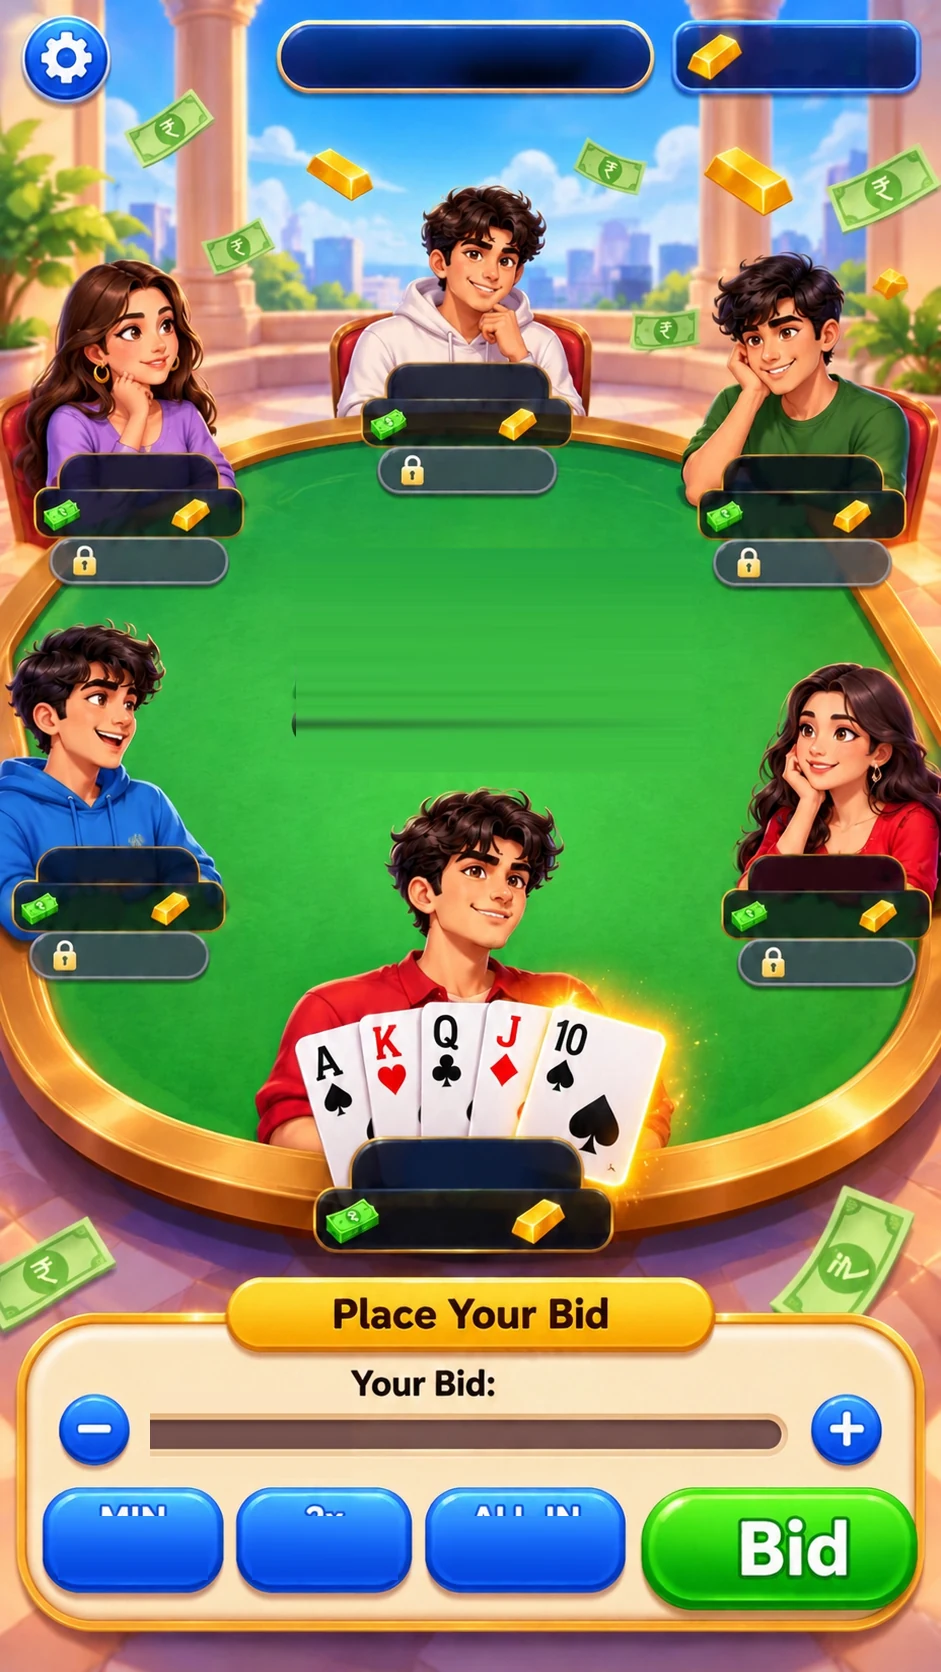
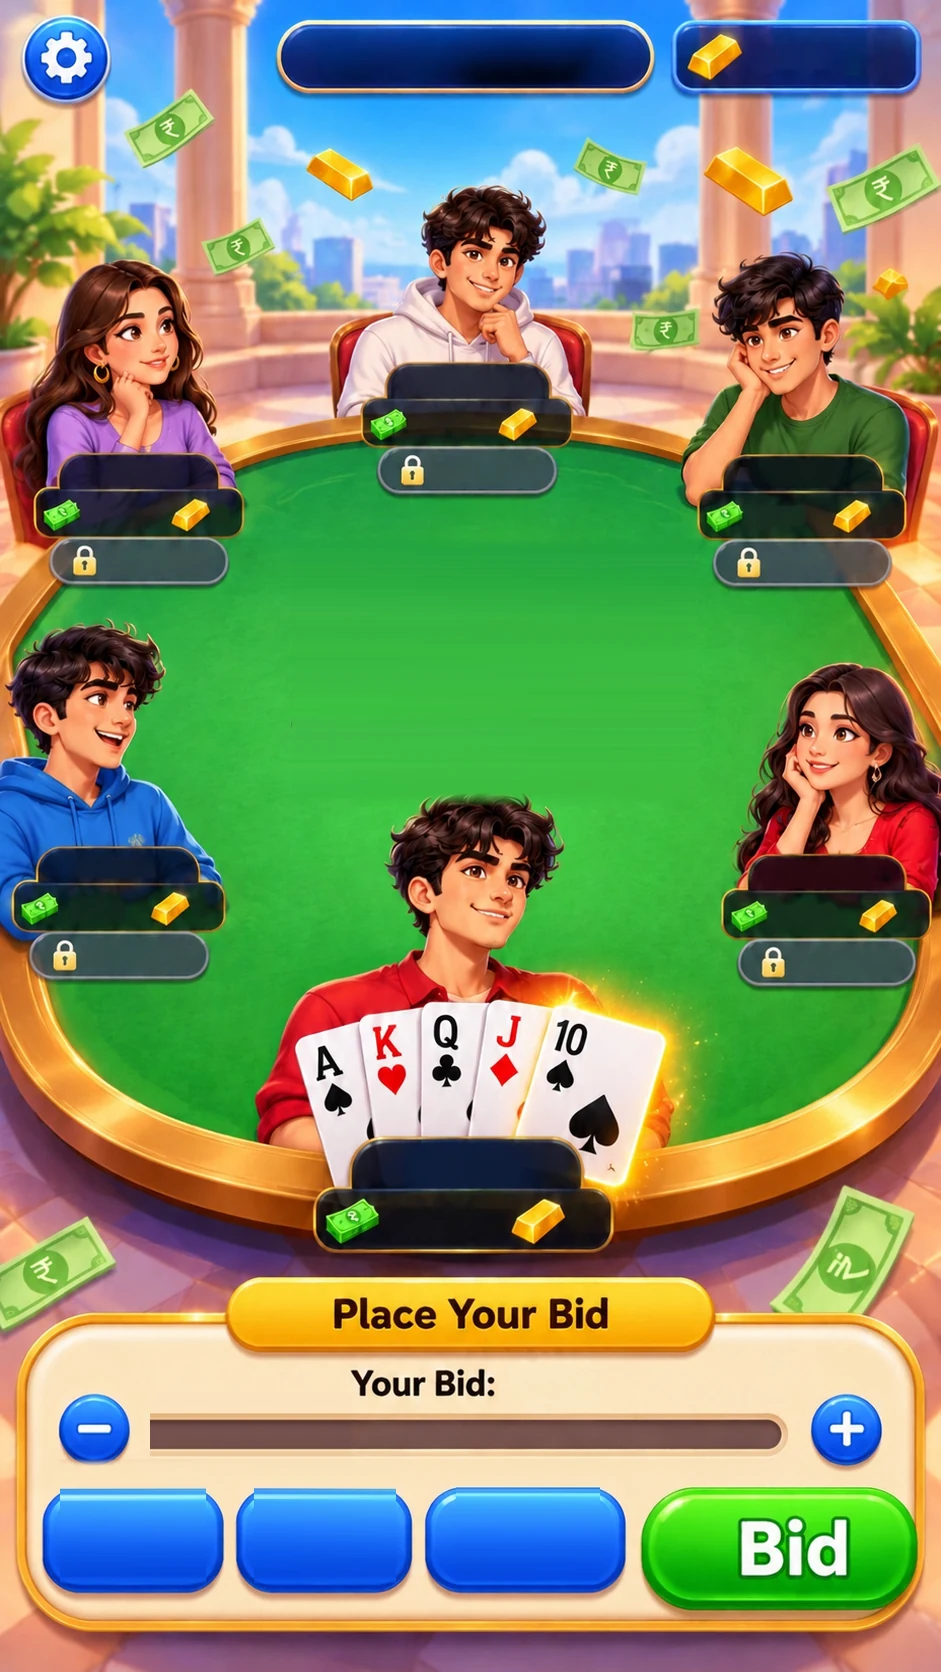
Table polish: live presets, navy badges, You name, plate gaps, clean felt

diff --git a/index.html b/index.html
@@ -100,7 +100,7 @@ input[type=range]::-moz-range-thumb{width:26px;height:26px;border:3px solid #fff
 #gameScreen{padding:0 8px;gap:4px;
   background:
     linear-gradient(180deg,rgba(255,255,255,.42) 0%,rgba(214,244,255,.30) 40%,rgba(200,240,200,.42) 100%),
-    url('assets/tablebg.webp?v=33') center/cover no-repeat fixed}
+    url('assets/tablebg.webp?v=34') center/cover no-repeat fixed}
 
 .topbar{display:flex;align-items:center;gap:8px;padding:8px 0 2px}
 .topbar .icon{
@@ -252,7 +252,7 @@ input[type=range]::-moz-range-thumb{width:26px;height:26px;border:3px solid #fff
 .hand .card.sel{
   border-color:#63e06b;box-shadow:0 0 0 3px #63e06b,0 12px 22px rgba(0,0,0,.35);z-index:20!important;
 }
-.hand .card.ghost{background:url('assets/cardback.webp?v=33') center/cover;border-color:#fff}
+.hand .card.ghost{background:url('assets/cardback.webp?v=34') center/cover;border-color:#fff}
 
 /* ---------- action panel ---------- */
 .actionpanel{
@@ -394,7 +394,7 @@ input[type=range]::-moz-range-thumb{width:26px;height:26px;border:3px solid #fff
 .rcard.red .face.front{color:#d02a1e}
 .rcard .face.front .r{font-size:24px;line-height:1;font-family:Georgia,serif}
 .rcard .face.front .s{font-size:16px;line-height:1}
-.rcard .face.back{transform:rotateY(180deg);background:url('assets/cardback.webp?v=33') center/cover;border:2px solid #fff}
+.rcard .face.back{transform:rotateY(180deg);background:url('assets/cardback.webp?v=34') center/cover;border:2px solid #fff}
 .rcell.win .rcard .face.front{box-shadow:0 0 0 3px #63e06b,0 0 26px rgba(99,224,107,.9)}
 .rcell.win{animation:winglow 1.4s ease-in-out infinite alternate}
 @keyframes winglow{from{transform:scale(1)}to{transform:scale(1.05)}}
@@ -479,7 +479,7 @@ input[type=range]::-moz-range-thumb{width:26px;height:26px;border:3px solid #fff
 
 /* ================= SPLASH ================= */
 @font-face{font-family:'Baloo 2';font-style:normal;font-weight:400 800;font-display:swap;
-  src:url('assets/baloo.woff2?v=33') format('woff2')}
+  src:url('assets/baloo.woff2?v=34') format('woff2')}
 #splashScreen{font-family:'Baloo 2',system-ui,sans-serif}
 
 .splash{position:relative;height:100dvh;min-height:100dvh;width:100%;overflow:hidden;
@@ -556,7 +556,7 @@ input[type=range]::-moz-range-thumb{width:26px;height:26px;border:3px solid #fff
 .hs-skyext{display:none}
 
 .hs-crop{position:absolute;background-repeat:no-repeat;background-size:941px 1672px;
-  background-image:url('assets/home/home-base.webp?v=33');will-change:transform;z-index:2}
+  background-image:url('assets/home/home-base.webp?v=34');will-change:transform;z-index:2}
 .hs-char{left:345px;top:150px;width:267px;height:585px;background-position:-345px -150px;
   animation:hsBob 3s ease-in-out infinite}
 @keyframes hsBob{0%,100%{transform:translateY(0)}50%{transform:translateY(-3px)}}
@@ -795,17 +795,19 @@ input[type=range]::-moz-range-thumb{width:26px;height:26px;border:3px solid #fff
 .tb-pile{position:absolute;transform:translate(-50%,-50%);z-index:4;width:104px;height:172px;
   border-radius:9px;filter:drop-shadow(0 6px 10px rgba(0,0,0,.4))}
 .tb-badge{position:absolute;transform:translate(-50%,-50%);z-index:5;
-  font-family:'Baloo 2';font-weight:800;font-size:26px;color:#fff;white-space:nowrap;
-  text-shadow:0 3px 0 rgba(8,20,45,.85)}
+  font-family:'Baloo 2';font-weight:800;font-size:24px;color:#fff;white-space:nowrap;
+  min-width:44px;height:34px;display:flex;align-items:center;justify-content:center;
+  padding:0 10px;border-radius:17px;border:2px solid #4b7fd4;
+  background:linear-gradient(180deg,#1d3f7a,#12294f);text-shadow:0 2px 0 rgba(0,0,0,.6)}
 
-.tb-hand{position:absolute;left:470px;top:1090px;width:0;height:0;z-index:7}
+.tb-hand{position:absolute;left:470px;top:1064px;width:0;height:0;z-index:7}
 .tb-card{position:absolute;left:-55px;top:-92px;width:110px;height:184px;border-radius:9px;
   transition:transform .16s ease,filter .16s ease;filter:drop-shadow(0 6px 10px rgba(0,0,0,.45))}
 .tb-card.sel{filter:drop-shadow(0 0 14px rgba(255,215,80,1))}
 .tb-card.miss{background:#123;border:3px dashed #ffd23f;color:#ffd23f;font-family:'Baloo 2';
   font-size:12px;font-weight:800;display:flex;align-items:center;justify-content:center;text-align:center;padding:5px}
 
-.tb-bidval{left:560px;top:1384px;font-size:34px}
+.tb-bidval{left:562px;top:1384px;font-size:34px;color:#5A3410;text-shadow:0 2px 0 rgba(255,255,255,.5)}
 
 .tb-slider{position:absolute;left:160px;top:1384px;width:622px;height:100px;z-index:6}
 .tb-slider i{position:absolute;left:0;top:38px;bottom:38px;border-radius:12px;
@@ -823,10 +825,12 @@ input[type=range]::-moz-range-thumb{width:26px;height:26px;border:3px solid #fff
 .tb-all{left:525px;top:1540px;width:190px;height:110px;transform:translate(-50%,-50%);border-radius:26px}
 .tb-bidbtn{left:778px;top:1548px;width:270px;height:130px;transform:translate(-50%,-50%);border-radius:34px}
 
-.tb-pv{font-size:28px;color:#fff}
-.tb-pv1{left:132px;top:1546px}
-.tb-pv2{left:324px;top:1546px}
-.tb-pv3{left:525px;top:1546px}
+.tb-pv{font-size:26px;color:#fff;line-height:1.06;text-align:center}
+.tb-pv span{display:block;font-size:26px}
+.tb-pv b{display:block;font-size:26px;font-weight:800}
+.tb-pv1{left:132px;top:1518px}
+.tb-pv2{left:324px;top:1518px}
+.tb-pv3{left:525px;top:1518px}
 
 .tb-overlay{position:absolute;inset:0;z-index:20;display:flex;align-items:center;justify-content:center;
   background:rgba(6,12,26,.55)}
@@ -848,9 +852,9 @@ input[type=range]::-moz-range-thumb{width:26px;height:26px;border:3px solid #fff
 
   <!-- ============ SPLASH / LOGIN ============ -->
   <section id="splashScreen" class="screen splash">
-    <img class="splash-bg" src="assets/bg-garden.webp?v=33" alt="">
+    <img class="splash-bg" src="assets/bg-garden.webp?v=34" alt="">
     <div class="floaties" id="floaties" aria-hidden="true"></div>
-    <img class="splash-logo" src="assets/logo.webp?v=33" alt="Game of Wealth">
+    <img class="splash-logo" src="assets/logo.webp?v=34" alt="Game of Wealth">
 
     <div class="splash-bottom">
       <div class="splash-actions" id="splashActions">
@@ -886,7 +890,7 @@ input[type=range]::-moz-range-thumb{width:26px;height:26px;border:3px solid #fff
     <div class="hs-wrap" id="hsWrap">
       <div class="hs-stage" id="hsStage">
         <div class="hs-skyext"></div>
-        <img class="hs-bg" src="assets/home/home-base.webp?v=33" alt="">
+        <img class="hs-bg" src="assets/home/home-base.webp?v=34" alt="">
         <div class="hs-crop hs-char" id="hsChar"></div>
         <div class="hs-crop hs-play" id="hsPlay"></div>
         <div class="hs-shimmer"></div>
@@ -921,18 +925,18 @@ input[type=range]::-moz-range-thumb{width:26px;height:26px;border:3px solid #fff
   <section id="tableSelectScreen" class="screen home3" hidden>
     <div class="hs-wrap">
       <div class="hs-stage" id="tsStage">
-        <img class="hs-bg" id="tsBg" src="assets/ts/ts-base.webp?v=33" alt="">
+        <img class="hs-bg" id="tsBg" src="assets/ts/ts-base.webp?v=34" alt="">
 
         <div class="ts-dim" id="dimPro"></div>
         <div class="ts-dim" id="dimHigh"></div>
         <div class="ts-outline" id="tsOutline"></div>
 
-        <div class="ts-count" id="cnt0"><img src="assets/ts/people.webp?v=33" alt=""><span>128 playing</span></div>
-        <div class="ts-count" id="cnt1"><img src="assets/ts/people.webp?v=33" alt=""><span>64 playing</span></div>
-        <div class="ts-count" id="cnt2"><img src="assets/ts/people.webp?v=33" alt=""><span>12 playing</span></div>
+        <div class="ts-count" id="cnt0"><img src="assets/ts/people.webp?v=34" alt=""><span>128 playing</span></div>
+        <div class="ts-count" id="cnt1"><img src="assets/ts/people.webp?v=34" alt=""><span>64 playing</span></div>
+        <div class="ts-count" id="cnt2"><img src="assets/ts/people.webp?v=34" alt=""><span>12 playing</span></div>
 
-        <img class="ts-lock" id="lockPro" src="assets/ic-lock.webp?v=33" alt="">
-        <img class="ts-lock" id="lockHigh" src="assets/ic-lock.webp?v=33" alt="">
+        <img class="ts-lock" id="lockPro" src="assets/ic-lock.webp?v=34" alt="">
+        <img class="ts-lock" id="lockHigh" src="assets/ic-lock.webp?v=34" alt="">
         <span class="ts-need" id="needPro">Need 5,000 cash</span>
         <span class="ts-need" id="needHigh">Need 10,000 cash</span>
 
@@ -960,7 +964,7 @@ input[type=range]::-moz-range-thumb{width:26px;height:26px;border:3px solid #fff
     <div class="bi-overlay" id="biOverlay" hidden>
       <div class="bi-sheet" id="biSheet">
         <div class="bi-inner" id="biInner">
-          <img class="bi-img" src="assets/ts/buyin-popup.webp?v=33" alt="">
+          <img class="bi-img" src="assets/ts/buyin-popup.webp?v=34" alt="">
 
           <span class="bi-amount" id="biAmount">2,000</span>
 
@@ -988,12 +992,12 @@ input[type=range]::-moz-range-thumb{width:26px;height:26px;border:3px solid #fff
   <section id="tableScreen" class="screen home3" hidden>
     <div class="hs-wrap">
       <div class="hs-stage" id="tblStage">
-        <img class="hs-bg" src="assets/game/table-base.webp?v=33" alt="">
+        <img class="hs-bg" src="assets/game/table-base.webp?v=34" alt="">
 
         <button class="tb-hit tb-gear" id="tbGear" aria-label="Settings"></button>
         <span class="tb-t tb-round" id="tbRound"></span>
         <span class="tb-t tb-gold" id="tbGold"></span>
-        <img class="tb-arrow" id="tbArrow" src="assets/game/top-arrow-up.webp?v=33" alt="">
+        <img class="tb-arrow" id="tbArrow" src="assets/game/top-arrow-up.webp?v=34" alt="">
 
         <div id="tbSeats"></div>
 
@@ -1011,9 +1015,9 @@ input[type=range]::-moz-range-thumb{width:26px;height:26px;border:3px solid #fff
         <button class="tb-hit tb-2x" id="tb2x" aria-label="Double"></button>
         <button class="tb-hit tb-all" id="tbAllin" aria-label="All in"></button>
         <button class="tb-hit tb-bidbtn" id="tbBid" aria-label="Bid"></button>
-        <span class="tb-t tb-pv tb-pv1" id="tbMinV"></span>
-        <span class="tb-t tb-pv tb-pv2" id="tb2xV"></span>
-        <span class="tb-t tb-pv tb-pv3" id="tbAllinV"></span>
+        <span class="tb-t tb-pv tb-pv1" id="tbMinV"><span>MIN</span><b>100</b></span>
+        <span class="tb-t tb-pv tb-pv2" id="tb2xV"><span>2x</span><b>200</b></span>
+        <span class="tb-t tb-pv tb-pv3" id="tbAllinV"><span>ALL-IN</span><b>2,000</b></span>
 
         <div class="tb-overlay" id="tbOverlay" hidden><div class="tb-obox" id="tbObox"></div></div>
       </div>
@@ -3221,7 +3225,7 @@ const Bots = (function () {
     const wrap = $('floaties');
     if (!wrap) return;
     wrap.innerHTML = '';
-    const kinds = ['assets/ic-cash1.webp?v=33', 'assets/ic-gold1.webp?v=33'];
+    const kinds = ['assets/ic-cash1.webp?v=34', 'assets/ic-gold1.webp?v=34'];
     for (let i = 0; i < 8; i++) {
       const img = document.createElement('img');
       img.className = 'flimg';
@@ -3473,7 +3477,7 @@ const Bots = (function () {
     Arjun:  { nm:[803,475], cash:[777,516], gold:[884,516], lock:[802,563] },
     Varun:  { nm:[118,866], cash:[95,908],  gold:[202,908], lock:[118,955] },
     Ananya: { nm:[825,874], cash:[803,915], gold:[907,915], lock:[827,962] },
-    You:    { nm:[468,1164], cash:[435,1221], gold:[565,1221] }
+    You:    { nm:[468,1186], cash:[435,1221], gold:[565,1221] }
   };
 
   function startTable() {
@@ -3550,12 +3554,12 @@ const Bots = (function () {
       wrap.appendChild(nm);
       const cash = document.createElement('span');
       cash.className = 'tb-num';
-      cash.style.left = pos.cash[0] + 'px'; cash.style.top = pos.cash[1] + 'px';
+      cash.style.left = (pos.cash[0] + 18) + 'px'; cash.style.top = pos.cash[1] + 'px';
       cash.textContent = Math.round(p.cash).toLocaleString('en-IN');
       wrap.appendChild(cash);
       const gold = document.createElement('span');
       gold.className = 'tb-num';
-      gold.style.left = pos.gold[0] + 'px'; gold.style.top = pos.gold[1] + 'px';
+      gold.style.left = (pos.gold[0] + 14) + 'px'; gold.style.top = pos.gold[1] + 'px';
       gold.textContent = p.gold;
       wrap.appendChild(gold);
       if (pos.lock) {
@@ -3573,7 +3577,7 @@ const Bots = (function () {
     for (let i = 0; i < 3; i++) {
       const b = document.createElement('img');
       b.className = 'tb-pile';
-      b.src = 'assets/game/back.webp?v=33';
+      b.src = 'assets/game/back.webp?v=34';
       b.style.left = (365 - i * 5) + 'px';
       b.style.top = (640 - i * 5) + 'px';
       piles.appendChild(b);
@@ -3588,10 +3592,10 @@ const Bots = (function () {
     }
     const bc1 = document.createElement('span');
     bc1.className = 'tb-badge'; bc1.style.left = '365px'; bc1.style.top = '742px';
-    bc1.textContent = s.deck.length + ' cards';
+    bc1.textContent = s.deck.length;
     const bc2 = document.createElement('span');
     bc2.className = 'tb-badge'; bc2.style.left = '572px'; bc2.style.top = '742px';
-    bc2.textContent = s.discard.length + ' cards';
+    bc2.textContent = s.discard.length;
     piles.appendChild(bc1); piles.appendChild(bc2);
 
     // hand
@@ -3615,9 +3619,9 @@ const Bots = (function () {
     if (myTurn && rng) TB.bid = Math.max(rng.min, Math.min(rng.max, TB.bid || rng.min));
     $('tbBidVal').textContent = myTurn ? Math.round(TB.bid).toLocaleString('en-IN') : '\u2014';
     if (rng) {
-      $('tbMinV').textContent = rng.min.toLocaleString('en-IN');
-      $('tb2xV').textContent = Math.min(rng.max, rng.min * 2).toLocaleString('en-IN');
-      $('tbAllinV').textContent = rng.max.toLocaleString('en-IN');
+      $('tbMinV').innerHTML = '<span>MIN</span><b>' + rng.min.toLocaleString('en-IN') + '</b>';
+      $('tb2xV').innerHTML = '<span>2x</span><b>' + Math.min(rng.max, rng.min * 2).toLocaleString('en-IN') + '</b>';
+      $('tbAllinV').innerHTML = '<span>ALL-IN</span><b>' + rng.max.toLocaleString('en-IN') + '</b>';
       const t = (TB.bid - rng.min) / Math.max(1, rng.max - rng.min);
       const pos = 'calc(26px + (100% - 52px) * ' + t + ')';
       $('tbFill').style.width = pos;
@@ -3646,7 +3650,7 @@ const Bots = (function () {
     else if (prev != null && price < prev) dir = 'down';
     if (!dir) { ar.classList.add('hide'); ar.classList.remove('pop'); }
     else {
-      const want = dir === 'up' ? 'assets/game/top-arrow-up.webp?v=33' : 'assets/game/top-arrow-down.webp?v=33';
+      const want = dir === 'up' ? 'assets/game/top-arrow-up.webp?v=34' : 'assets/game/top-arrow-down.webp?v=34';
       if (!ar.src.endsWith(want.split('/').pop())) {
         ar.src = want; ar.classList.remove('pop'); void ar.offsetWidth; ar.classList.add('pop');
       }
@@ -3864,7 +3868,7 @@ const Bots = (function () {
 </script>
 <script>
 if ('serviceWorker' in navigator) {
-  window.addEventListener('load', function () { navigator.serviceWorker.register('./sw.js?v=33').catch(function(){}); });
+  window.addEventListener('load', function () { navigator.serviceWorker.register('./sw.js?v=34').catch(function(){}); });
 }
 </script>
 </body>

diff --git a/sw.js b/sw.js
@@ -1,7 +1,7 @@
 /* Game of Wealth - offline shell.
    Network-first for everything so a deploy is visible on the next load;
    the cache is only used when the network fails. */
-const CACHE = 'gow-v33';
+const CACHE = 'gow-v34';
 const ASSETS = ['./', './index.html', './manifest.json', './icon.svg'];
 
 self.addEventListener('install', (e) => {
